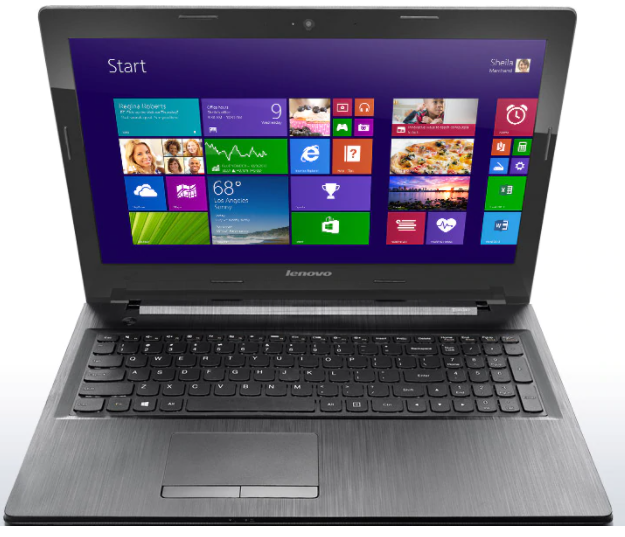
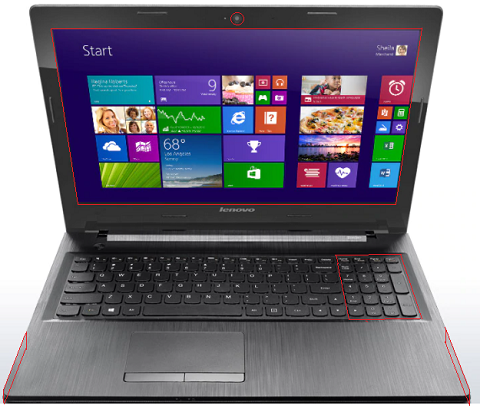
Adicionado mapas de imagem
Adicionado mapas de imagem na página no note g50-80

diff --git a/_css/note.css b/_css/note.css
@@ -13,6 +13,10 @@ section#conteudo {
   margin: auto;
 }
 
+map area {
+  outline-color: blue;
+}
+
 iframe#frame-spec {
   width: 550px;
   height: 425px;

diff --git a/_artigos/note-g50-80.php b/_artigos/note-g50-80.php
@@ -51,9 +51,29 @@
          sobre os recursos do Lenovo G50-80</p>
 
       <section id="conteudo">       
-        <img src="../_imagens/note.png" width="480"/ height="429"
-             alt="Notebook Lenovo G50-80 visto de frente">
-        <iframe src="note-g50-80-specs.php" id="frame-spec" name="janela">
+        <img src="../_imagens/note.png" width="480" height="412"
+             alt="Notebook Lenovo G50-80 visto de frente" 
+             usemap="#meumapa"/>
+        <map name="meumapa">
+          <area shape="circle" coords="237,19,8"
+                href="note-g50-80-specs.html#camera" 
+                target="janela" alt="Câmera do Lenovo G50-80"/>
+          <area shape="poly" coords="51,28,423,28,396,207,77,208"
+                href="note-g50-80-specs.html#tela" alt="Tela do Lenovo G50-80"
+                target="janela"/>
+          <area shape="poly" coords="336,254,401,254,423,321,349,321"
+                href="note-g50-80-specs.html#teclado" 
+                target="janela" alt="Teclado Accutype do Lenovo G50-80"/>
+          <area shape="poly" coords="446,327,470,390,468,405,445,345"
+                href="note-g50-80-specs.html#usb" alt="USB3.0 do Lenovo G50-80"
+                target="janela"/>
+          <area shape="poly" coords="26,332,27,349,4,403,3,387" 
+                href="note-g50-80-specs.html#usb" 
+                alt="USB3.0 do Lenovo G50-80"
+                target="janela"/>
+        </map>
+
+        <iframe src="note-g50-80-specs.html" id="frame-spec" name="janela">
         </iframe>
       </section>
     </article>

diff --git a/index.php b/index.php
@@ -134,7 +134,8 @@
                       width="560" height="315" allowfullscreen
                       title="Separador de planilhas em Visual Basic.Net"
                       name="sepvb">
-              </iframe>
+              </iframe><ifr
+
             </article>
           </section>
 
@@ -161,7 +162,9 @@
             </header>
             <article>
               <h3>
-                <a href="_artigos/note-g50-80.php">Lenovo G50-80</code></a>
+                <a href="_artigos/note-g50-80.php">Lenovo G50-80
+                   (demonstração de <code>iframe</code> e mapas de imagem)
+                </a>
               </h3>
             </article>
           </section>
